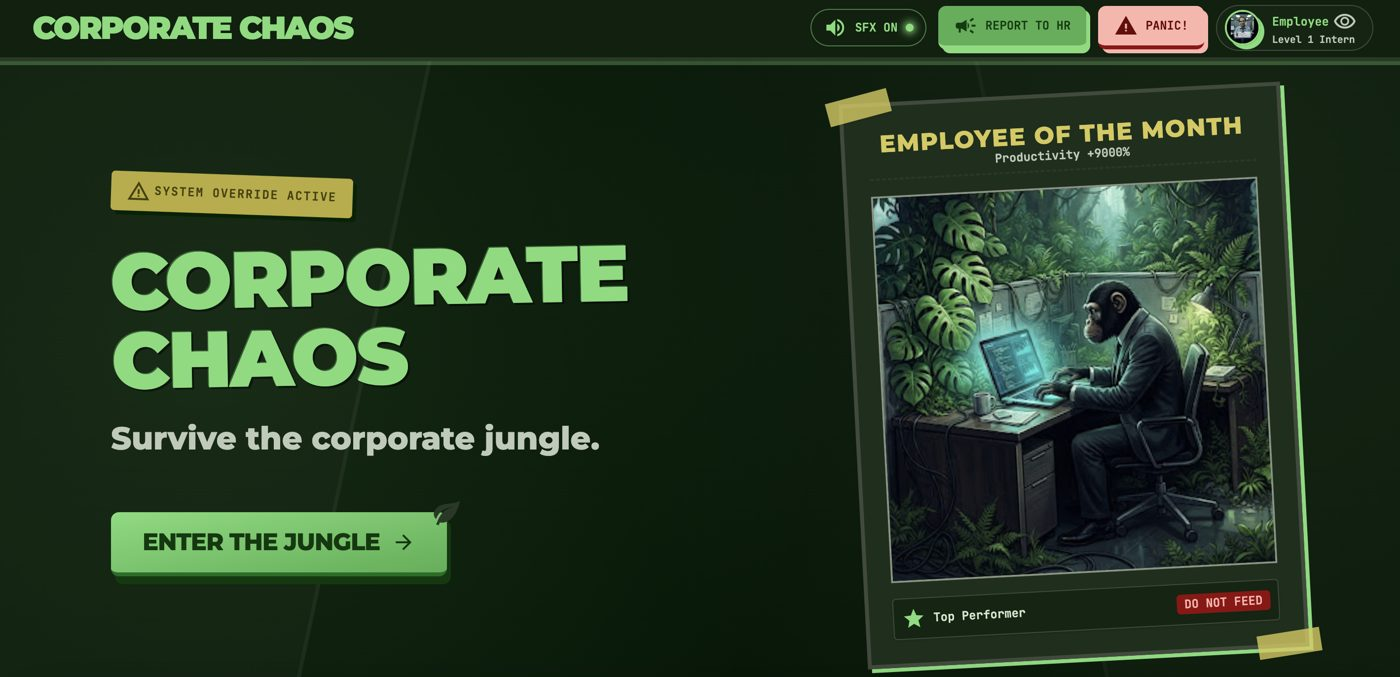
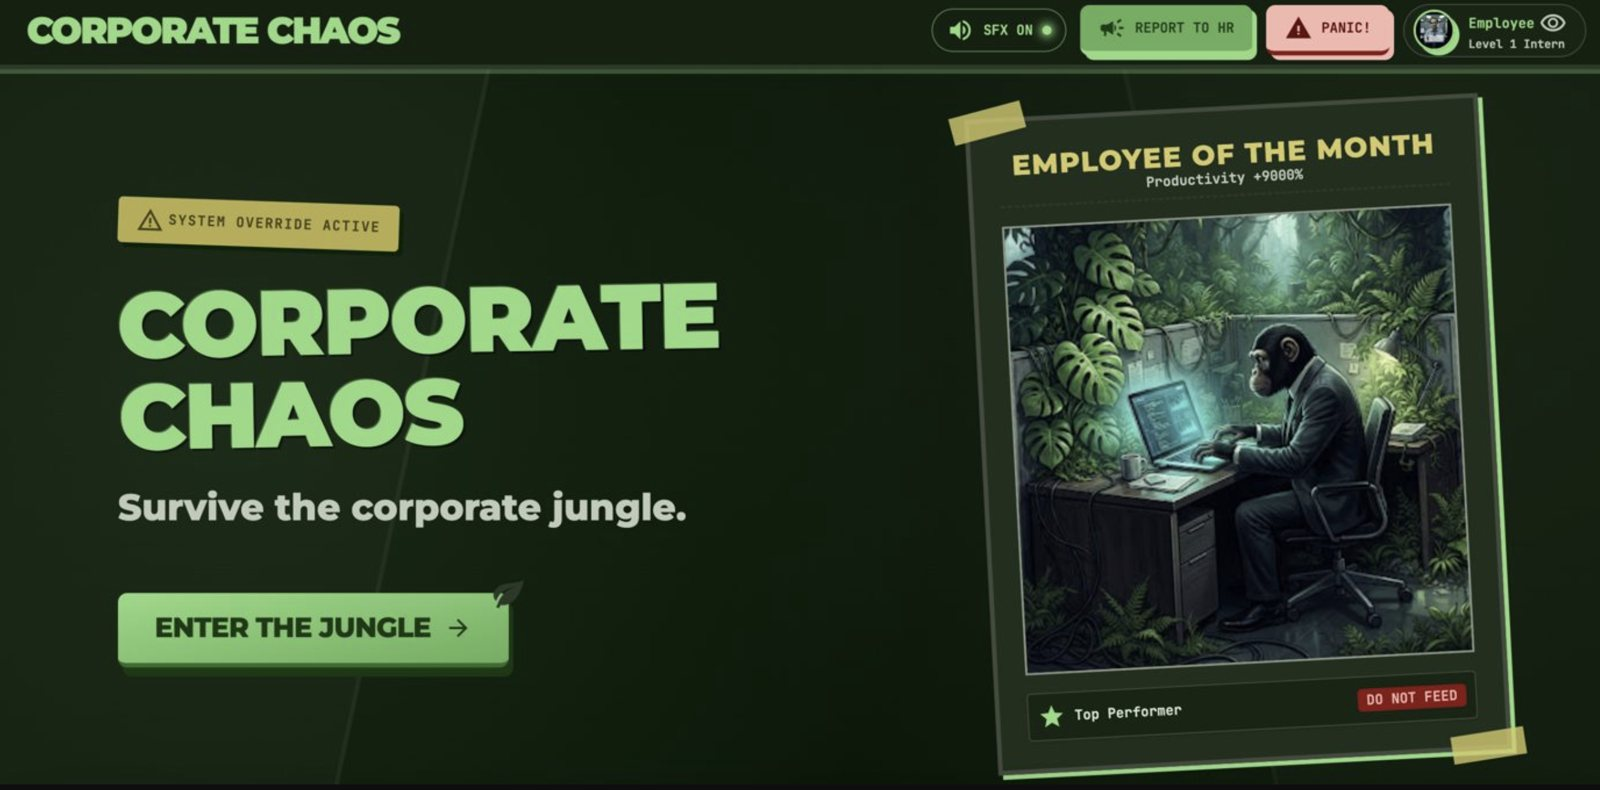
Corporate Chaos: split feature layout like the SIH project
Claude-Session: https://claude.ai/code/session_018jxijH8Jqk5ZYFdauh5WtK

diff --git a/src/components/site/Projects.tsx b/src/components/site/Projects.tsx
@@ -81,6 +81,8 @@ export function Projects() {
                       {/* Top: award details (left) + award photo (right) */}
                       <div className="grid items-center gap-8 lg:grid-cols-2 lg:gap-12">
                         <div>
+                          {"award" in project && project.award ? (
+                            <>
                           <div className="rounded-3xl bg-gold p-6 text-gold-foreground shadow-lift sm:p-8">
                             <p className="flex items-start gap-3 text-sm font-bold tracking-wide uppercase sm:text-base">
                               <Trophy className="mt-0.5 size-5 shrink-0" />
@@ -95,7 +97,41 @@ export function Projects() {
                               </p>
                             )}
                           </div>
-                          <h4 className="display mt-8 text-3xl sm:text-4xl lg:text-5xl">{project.title}</h4>
+                              <h4 className="display mt-8 text-3xl sm:text-4xl lg:text-5xl">{project.title}</h4>
+                            </>
+                          ) : (
+                            <>
+                              <p className="eyebrow text-gold">
+                                {project.category} · {project.year}
+                              </p>
+                              <h4 className="display mt-4 text-4xl sm:text-5xl lg:text-6xl">{project.title}</h4>
+                              {"tagline" in project && project.tagline && (
+                                <p className="mt-4 text-base leading-relaxed opacity-80 sm:text-lg">
+                                  {String(project.tagline)}
+                                </p>
+                              )}
+                              <ul className="mt-6 flex flex-wrap gap-2">
+                                {("highlightTags" in project ? (project.highlightTags as string[]) : []).map((tag) => (
+                                  <li
+                                    key={tag}
+                                    className="rounded-full bg-gold px-4 py-1.5 text-sm font-bold text-gold-foreground"
+                                  >
+                                    {tag}
+                                  </li>
+                                ))}
+                              </ul>
+                              {"link" in project && project.link && (
+                                <a
+                                  href={project.link}
+                                  target="_blank"
+                                  rel="noopener noreferrer"
+                                  className="mt-8 inline-flex items-center gap-2 rounded-full bg-foreground px-6 py-3 text-sm font-bold text-background transition-transform hover:-translate-y-0.5"
+                                >
+                                  {"linkLabel" in project ? project.linkLabel : "Open"} <ArrowUpRight className="size-4" />
+                                </a>
+                              )}
+                            </>
+                          )}
                         </div>
                         <a
                           href={awardPhoto.src}
@@ -115,7 +151,10 @@ export function Projects() {
                       </div>
 
                       {/* Middle: product and project details */}
-                      <div className="mt-12 grid gap-8 md:grid-cols-3">
+                      {points.length === 0 && (
+                        <p className="mt-12 max-w-4xl text-base leading-relaxed opacity-80">{project.blurb}</p>
+                      )}
+                      <div className={points.length ? "mt-12 grid gap-8 md:grid-cols-3" : "hidden"}>
                         {points.map((block) => (
                           <div key={block.heading}>
                             <p className="eyebrow text-gold">{block.heading}</p>

diff --git a/src/content/portfolio.ts b/src/content/portfolio.ts
@@ -220,8 +220,13 @@ export const projectGroups = [
         tags: ["AI-Generated Visuals", "Prompt Design", "Persona Engine", "UX Writing", "Rapid Prototyping"],
         link: "https://corporate-chaos.lovable.app",
         linkLabel: "Play the Game",
-        screens: [
-          { src: chaosLanding, alt: "Corporate Chaos landing page with an Employee of the Month card", caption: "Landing — enter the jungle" },
+        tagline: "Survive the corporate jungle — a satirical office-survival game, built end to end with AI.",
+        awardPhoto: {
+          src: chaosLanding,
+          alt: "Corporate Chaos landing page: 'Survive the corporate jungle' with an Employee of the Month card",
+          caption: "Landing — “Survive the corporate jungle.”",
+        } as ProjectPhoto,
+        gallery: [
           { src: chaosOnboarding, alt: "Employee onboarding screen to create a corporate badge ID", caption: "Onboarding — build your badge" },
           { src: chaosScenario, alt: "A workplace scenario question with four answer choices and a stress meter", caption: "10 scenarios per level" },
           { src: chaosAnalysis, alt: "Chaos Corp AI analysis showing survival rate and trait meters", caption: "AI analysis of your habits" },
